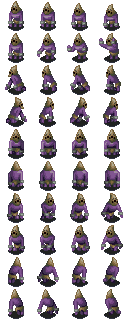
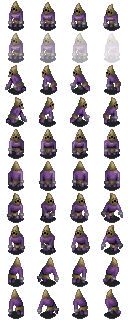
v0.7 - gameplay: play animations on collision;

diff --git a/bin/js/main-javascript.js b/bin/js/main-javascript.js
@@ -1338,11 +1338,12 @@ phasergame_PhaserScene.prototype = $extend(Phaser.Scene.prototype,{
 		}
 	}
 	,onCharackterAndMobCollision: function(dataNameId) {
-		var key = dataNameId.mob;
-		var _this = model_Model.mobsData;
-		var mobLvl = (__map_reserved[key] != null ? _this.getReserved(key) : _this.h[key]).currentLevel;
-		this.playersCollection.onPlayerSlayMob(dataNameId.charackter,mobLvl);
-		this.mobsCollection.onMobSlayed(dataNameId.mob);
+		if(this.mobsCollection.onMobCollision(dataNameId.mob)) {
+			var key = dataNameId.mob;
+			var _this = model_Model.mobsData;
+			var mobLvl = (__map_reserved[key] != null ? _this.getReserved(key) : _this.h[key]).currentLevel;
+			this.playersCollection.onPlayerSlayMob(dataNameId.charackter,mobLvl);
+		}
 	}
 	,checkGameEndCreteria: function() {
 		var isGameEnd = model_Model.maxLvlInGame == model_Model.maxLvl;
@@ -1397,8 +1398,10 @@ phasergame_sceneobjects_Background.prototype = {
 	}
 };
 var phasergame_sceneobjects_Character = function(phaserScene,config) {
+	this.onCollision = false;
 	this.MIN_DISTANCE = model_Model.character.MIN_DISTANCE;
 	this.MOVE_SPEED = model_Model.character.MOVE_SPEED;
+	this.COLISION_ANIM_ID = 2;
 	this.IDLE_POSE_ID = 1;
 	this.phaserScene = phaserScene;
 	this.config = config;
@@ -1437,6 +1440,24 @@ phasergame_sceneobjects_Character.prototype = {
 		this.text.text = config.label;
 		this.text.updateText();
 	}
+	,setCollisionState: function(animComplete) {
+		var _gthis = this;
+		if(!this.onCollision) {
+			this.onCollision = true;
+			this.phaserScene.physics.moveTo(this.sprite,this.sprite.x,this.sprite.y,0);
+			this.setAnimation(this.COLISION_ANIM_ID,function() {
+				_gthis.onCollision = false;
+				animComplete(_gthis);
+				_gthis.sprite.off("animationcomplete");
+			});
+		}
+	}
+	,setIdle: function() {
+		this.setAnimation(this.IDLE_POSE_ID);
+	}
+	,isOnCollision: function() {
+		return this.onCollision;
+	}
 	,setLabel: function(label) {
 		this.text = this.phaserScene.add.text(this.sprite.x,this.sprite.y,label);
 		this.text.visible = model_Model.showLabel;
@@ -1445,10 +1466,14 @@ phasergame_sceneobjects_Character.prototype = {
 	,setSpeed: function(speed) {
 		this.MOVE_SPEED = speed;
 	}
-	,setAnimation: function(lineId) {
+	,setAnimation: function(lineId,animComplete) {
 		var animationId = this.getIdByLine(lineId);
 		if(this.sprite.anims.getCurrentKey() != animationId) {
 			this.sprite.anims.load(animationId);
+			if(animComplete != null) {
+				this.sprite.on("animationcomplete",animComplete);
+				this.sprite.anims.stopOnRepeat();
+			}
 			this.sprite.anims.play(animationId);
 		}
 	}
@@ -1456,7 +1481,7 @@ phasergame_sceneobjects_Character.prototype = {
 		return "typeId:" + this.config.charType + "}_lineId:" + lineId + "_skin:" + this.config.skin;
 	}
 	,getAnimationConfig: function(typeId,lineId) {
-		var result = { key : this.getIdByLine(lineId), frames : this.phaserScene.anims.generateFrameNumbers(typeId,this.getFrameConfigByLineId(lineId)), frameRate : 6, yoyo : true, repeat : -1};
+		var result = { key : this.getIdByLine(lineId), frames : this.phaserScene.anims.generateFrameNumbers(typeId,this.getFrameConfigByLineId(lineId)), frameRate : 6, yoyo : false, repeat : -1};
 		return result;
 	}
 	,getFrameConfigByLineId: function(lineId) {
@@ -1471,15 +1496,17 @@ phasergame_sceneobjects_Character.prototype = {
 		return result;
 	}
 	,setGoToXY: function(x,y) {
-		var tx = x - this.sprite.x;
-		var ty = y - this.sprite.y;
-		var dist = Math.sqrt(tx * tx + ty * ty);
-		var rad = Math.atan2(ty,tx);
-		var angle = rad / Math.PI * 180;
-		this.setAnimation(this.detectPosByAngle(angle));
-		this.phaserScene.physics.moveTo(this.sprite,x,y,this.MOVE_SPEED);
-		this.xDestination = x;
-		this.yDestination = y;
+		if(!this.onCollision) {
+			var tx = x - this.sprite.x;
+			var ty = y - this.sprite.y;
+			var dist = Math.sqrt(tx * tx + ty * ty);
+			var rad = Math.atan2(ty,tx);
+			var angle = rad / Math.PI * 180;
+			this.setAnimation(this.detectPosByAngle(angle));
+			this.phaserScene.physics.moveTo(this.sprite,x,y,this.MOVE_SPEED);
+			this.xDestination = x;
+			this.yDestination = y;
+		}
 	}
 	,setXY: function(x,y) {
 		this.sprite.x = x;
@@ -1636,25 +1663,31 @@ phasergame_sceneobjects_MobsCollection.prototype = {
 	,getAllMobList: function() {
 		return this.allMobList;
 	}
-	,onMobSlayed: function(mobId) {
+	,onMobCollision: function(mobId) {
 		var mob = this.findMobById(mobId);
+		var mobSlayed = false;
 		if(mob != null) {
-			var lvlId = Std.random(model_Model.maxLvlInGame + 1);
-			if(lvlId > model_Model.maxMobLvlId) {
-				lvlId = model_Model.maxMobLvlId;
-			} else {
-				lvlId = lvlId;
-			}
-			var mobConfig = this.getMobConfigByLvl(lvlId,0);
-			mob.reinit(mobConfig);
-			mob.setSpeed(model_Model.mobSpeeds[lvlId]);
-			mob.setXY(Utils.getRandomScreenX(),Utils.getRandomScreenY());
-			mob.setGoToXY(Utils.getRandomScreenX(),Utils.getRandomScreenY());
-			var this1 = model_Model.mobsData;
-			var key = mob.getPhysicBody().name;
-			var _this = this1;
-			(__map_reserved[key] != null ? _this.getReserved(key) : _this.h[key]).currentLevel = lvlId + 1;
+			mobSlayed = !mob.isOnCollision();
+			mob.setCollisionState($bind(this,this.respawnMob));
 		}
+		return mobSlayed;
+	}
+	,respawnMob: function(mob) {
+		var lvlId = Std.random(model_Model.maxLvlInGame + 1);
+		if(lvlId > model_Model.maxMobLvlId) {
+			lvlId = model_Model.maxMobLvlId;
+		} else {
+			lvlId = lvlId;
+		}
+		var mobConfig = this.getMobConfigByLvl(lvlId,0);
+		mob.reinit(mobConfig);
+		mob.setSpeed(model_Model.mobSpeeds[lvlId]);
+		mob.setXY(Utils.getRandomScreenX(),Utils.getRandomScreenY());
+		mob.setGoToXY(Utils.getRandomScreenX(),Utils.getRandomScreenY());
+		var this1 = model_Model.mobsData;
+		var key = mob.getPhysicBody().name;
+		var _this = this1;
+		(__map_reserved[key] != null ? _this.getReserved(key) : _this.h[key]).currentLevel = lvlId + 1;
 	}
 	,findMobById: function(mobId) {
 		var _g = 0;
@@ -1780,6 +1813,10 @@ phasergame_sceneobjects_PlayersCollection.prototype = {
 	}
 	,onPlayerSlayMob: function(playerId,mobLvl) {
 		model_Model.totalMobSlayedCounter++;
+		var player = this.findPlayerById(playerId);
+		player.setCollisionState(function(player1) {
+			player1.setIdle();
+		});
 		if(model_Model.teamMode) {
 			var this1 = model_Model.playersData;
 			var _this = model_Model.playersData;
@@ -1803,6 +1840,18 @@ phasergame_sceneobjects_PlayersCollection.prototype = {
 				model_Model.leaderPlayerLabel = playerData.label;
 			}
 		}
+	}
+	,findPlayerById: function(playerId) {
+		var _g = 0;
+		var _g1 = this.allPlayersList;
+		while(_g < _g1.length) {
+			var currentPlayer = _g1[_g];
+			++_g;
+			if(currentPlayer.getPhysicBody().name == playerId) {
+				return currentPlayer;
+			}
+		}
+		return null;
 	}
 };
 var react_ReactMacro = function() { };

diff --git a/README.md b/README.md
@@ -11,8 +11,7 @@ OPTIONS:
 - save options/menu in cookies = v 0.7
 
 GRAPHICS:
-- add hit animation for prey and hunters. = v 0.7
-need to wait when it is over before hunter can go again, and for prey to respawn.
++ BUG: sometimes mob appears with the wrong skin; switch to correct one shortly;
 
 UI:
 - improve graphics to targeting full HD resolution = v0.7 
